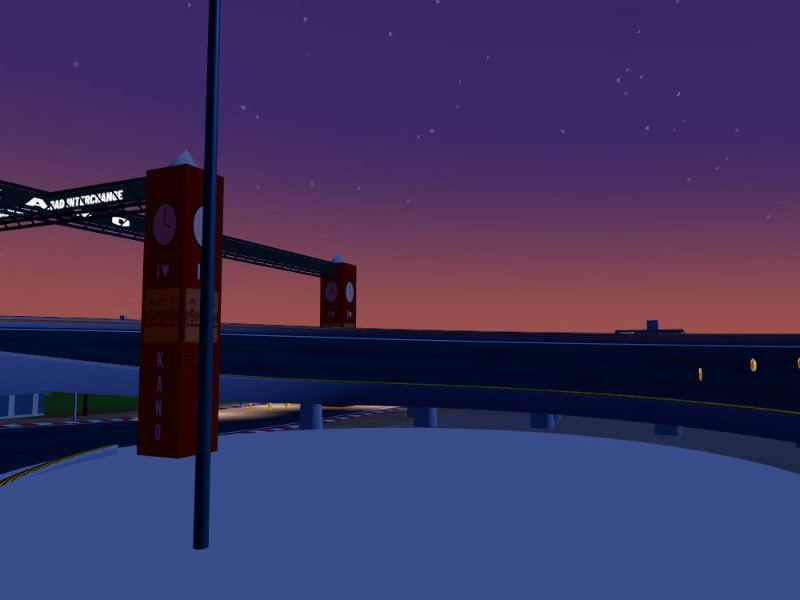
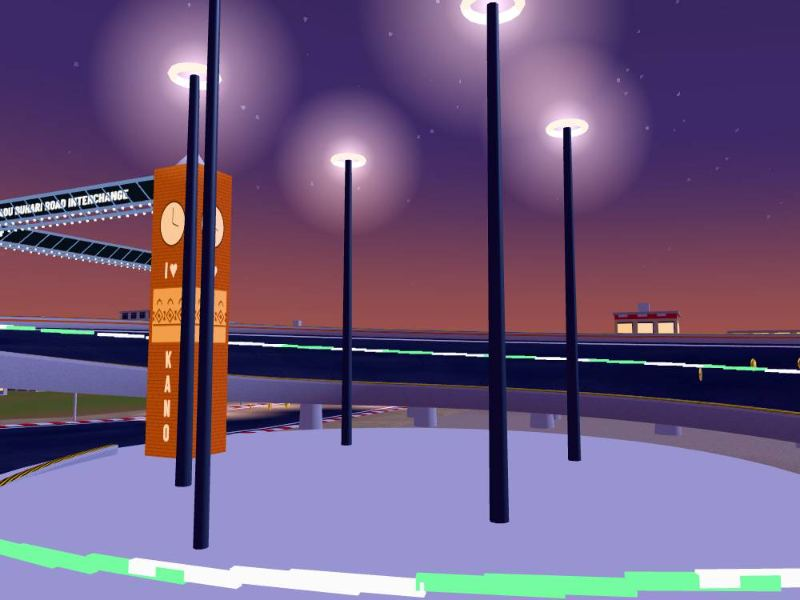
The circuit's introduction (F1 TV): before the race card the camera orbits low over the circuit with its name, laps and length, then flies past its places, a caption on each (the name, a line about it), and down to the grid. The full run the first time you race a circuit, a short one after; a tap, a

diff --git a/src/race-flow.js b/src/race-flow.js
@@ -20,7 +20,99 @@ import { releaseInput } from './input.js';
 
 // the loading card before a race (Asphalt): the chapter, the goal, pictures of its places, a filling diamond
 export const INTRO = location.hash === '#capture' ? 2.4 : 5.2; // seconds: long enough to read the card and see the grid
+// The circuit's introduction, before the race card (F1 TV): the camera orbits high over the whole circuit with its name,
+// then flies past its places, each with a caption, and drops down to the grid. The first time you race a circuit you
+// see up to five places; after that only the orbit and one place. A tap, a click or a key skips it.
+const FLY_OPEN = 3,
+  FLY_SHOT = 2;
 export function raceIntro(then) {
+  if (game.flybyDone) {
+    game.flybyDone = false;
+    return raceCard(then);
+  }
+  circuitFlyby(() => {
+    game.flybyDone = true;
+    raceIntro(then);
+  });
+}
+function circuitFlyby(then) {
+  const tr = game.track,
+    key = 'introSeen.' + game.RID,
+    first = !store.get(key, false),
+    places = (game.world.places || []).filter(p => p.s != null),
+    pick = first ? places.slice(0, 4) : places.slice(0, 1);
+  store.set(key, true);
+  if (location.hash === '#capture') return then(); // (pictures and recordings go straight to the race)
+  game.race.reset(); // the grid lines up; the roads are empty
+  const km = (tr.len / 1000).toFixed(1).replace('.0', ''),
+    cname = (game.circuit?.name || chapter.name).toUpperCase(), // (the circuit's own name: no "KANO · KANO CITY")
+    shots = [
+      {
+        kind: 'orbit',
+        dur: first ? FLY_OPEN : 1.6,
+        kicker: chapter.name.toUpperCase(),
+        name: cname,
+        chips: [`${LAPS} LAPS`, `${km} KM`],
+      },
+      ...pick.map(p => ({
+        kind: 'place',
+        dur: first ? FLY_SHOT : 1.5,
+        p,
+        kicker: cname,
+        name: p.name,
+        sub: p.sub,
+      })),
+    ];
+  game.flyby = { shots, i: -1, t: 0, total: shots.reduce((a, x) => a + x.dur, 0) };
+  game.state = 'flyby';
+  const el = $('#flyby');
+  let ended = false;
+  const end = () => {
+    if (ended) return;
+    ended = true;
+    removeEventListener('keydown', skipKey);
+    el.removeEventListener('pointerdown', end);
+    clearInterval(tick);
+    hide(el, null, -1);
+    game.flyby = null;
+    then();
+  };
+  const skipKey = e => {
+    if (e.code !== 'Tab') end();
+  };
+  addEventListener('keydown', skipKey);
+  el.addEventListener('pointerdown', end);
+  // the caption follows the shot the camera is on (camera.js moves the camera through game.flyby)
+  const caption = () => {
+    const f = game.flyby;
+    if (!f) return;
+    let t = f.t,
+      i = 0;
+    while (i < f.shots.length - 1 && t >= f.shots[i].dur) t -= f.shots[i++].dur;
+    if (f.t >= f.total) return end();
+    if (i === f.i) return;
+    f.i = i;
+    const sh = f.shots[i];
+    $('#fbKicker').textContent = sh.kicker;
+    const nm = $('#fbName');
+    nm.textContent = sh.name;
+    nm.style.fontSize = '';
+    {
+      // (one line, brought down in size until it fits: "THE AQUARIUM TUNNEL" was cut off)
+      let px = parseFloat(getComputedStyle(nm).fontSize);
+      while (nm.scrollWidth > nm.clientWidth + 1 && px > 24) nm.style.fontSize = `${(px -= 3)}px`;
+    }
+    $('#fbSub').textContent = sh.sub || '';
+    $('#fbChips').innerHTML = (sh.chips || []).map(c => `<b>${c}</b>`).join('');
+    el.classList.remove('cap-in');
+    void el.offsetWidth;
+    el.classList.add('cap-in');
+  };
+  const tick = setInterval(caption, 50);
+  show(el);
+  caption();
+}
+function raceCard(then) {
   const c = chapter,
     el = $('#raceLoad');
   // the World Tour's Final dresses up: a gold card with a trophy, THE FINAL; fireworks and the crowd at the start

diff --git a/src/style.css b/src/style.css
@@ -3879,3 +3879,123 @@ body.tilt-steer .steer-pad {
   padding: calc(var(--st) + 16px) max(16px, var(--sr)) calc(var(--sb) + 16px) max(16px, var(--sl)) !important;
   background: rgba(6, 10, 26, 0.82) !important;
 }
+
+/* ---------- the circuit's introduction (F1 TV): a caption low on the left over the flying camera, SKIP low right ---------- */
+#flyby {
+  position: fixed;
+  inset: 0;
+  z-index: 29;
+  pointer-events: auto;
+  background: linear-gradient(0deg, rgba(11, 19, 48, 0.75), rgba(11, 19, 48, 0) 38%);
+  padding: 0 max(20px, var(--sr)) calc(var(--sb) + 28px) max(20px, var(--sl));
+  display: flex;
+  align-items: flex-end;
+  justify-content: space-between;
+  gap: 16px;
+}
+.fb-cap {
+  display: flex;
+  flex-direction: column;
+  gap: 10px;
+  min-width: 0;
+  max-width: min(640px, 100%);
+}
+.fb-tag {
+  margin: 0;
+  display: flex;
+  align-items: stretch;
+  height: 34px;
+  font-family: var(--race);
+  font-style: italic;
+  font-weight: 800;
+  font-size: 22px;
+}
+.fb-tag span {
+  display: flex;
+  align-items: center;
+  background: var(--orange);
+  color: var(--white);
+  padding: 0 26px 0 14px;
+  clip-path: polygon(0 0, 100% 0, calc(100% - 12px) 100%, 0 100%);
+  white-space: nowrap;
+}
+.fb-tag i {
+  width: 7px;
+  background: var(--white);
+  transform: skewX(-20deg);
+  margin-left: 4px;
+}
+#fbName {
+  margin: 0;
+  font-family: var(--race);
+  font-style: italic;
+  font-weight: 900;
+  font-size: clamp(44px, 10vw, 84px);
+  line-height: 0.92;
+  color: var(--white);
+  text-shadow: 0 4px 24px rgba(0, 0, 0, 0.45);
+  white-space: nowrap;
+  overflow: hidden;
+  text-overflow: clip;
+}
+.fb-sub {
+  margin: 0;
+  font-family: var(--race);
+  font-style: italic;
+  font-weight: 700;
+  font-size: clamp(20px, 4.4vw, 28px);
+  color: var(--line);
+  white-space: nowrap;
+  overflow: hidden;
+}
+.fb-sub:empty {
+  display: none;
+}
+.fb-chips {
+  display: flex;
+  gap: 8px;
+  flex-wrap: nowrap;
+}
+.fb-chips:empty {
+  display: none;
+}
+.fb-chips b {
+  font-family: var(--race);
+  font-style: italic;
+  font-weight: 800;
+  font-size: 20px;
+  color: var(--white);
+  background: rgba(11, 19, 48, 0.75);
+  border: 2px solid rgba(255, 255, 255, 0.35);
+  padding: 4px 14px;
+  clip-path: polygon(8px 0, 100% 0, calc(100% - 8px) 100%, 0 100%);
+  white-space: nowrap;
+}
+/* the caption slides in from the left each time it changes */
+#flyby.cap-in .fb-cap {
+  animation: fbIn 420ms cubic-bezier(0.23, 1, 0.32, 1);
+}
+@keyframes fbIn {
+  from {
+    opacity: 0;
+    transform: translateX(-28px);
+  }
+}
+.fb-skip {
+  flex: none;
+  font-family: var(--race);
+  font-style: italic;
+  font-weight: 800;
+  font-size: 22px;
+  color: var(--white);
+  background: rgba(11, 19, 48, 0.6);
+  border: 2px solid rgba(255, 255, 255, 0.5);
+  padding: 8px 22px;
+  clip-path: polygon(10px 0, 100% 0, calc(100% - 10px) 100%, 0 100%);
+  -webkit-tap-highlight-color: transparent;
+}
+@media (prefers-reduced-motion: reduce) {
+  #flyby.cap-in .fb-cap {
+    animation: none;
+  }
+}

diff --git a/src/camera.js b/src/camera.js
@@ -55,7 +55,36 @@ export function updateCamera(dt) {
   const fpOn = game.view === 'fp' && (game.state === 'race' || game.state === 'count');
   fpBody(k.m, !fpOn);
   game.race.fpView = fpOn;
-  if (game.state === 'intro') {
+  if (game.state === 'flyby' && game.flyby) {
+    // the circuit's introduction (race-flow.js): a slow orbit high over the circuit, then a drone pass at each place,
+    // gliding in toward it and looking at it, a cut between shots
+    const f = game.flyby;
+    f.t += dt;
+    let t = f.t,
+      i = 0;
+    while (i < f.shots.length - 1 && t >= f.shots[i].dur) t -= f.shots[i++].dur;
+    const sh = f.shots[i],
+      u = Math.min(1, t / sh.dur),
+      e2 = u * u * (3 - 2 * u),
+      tr = game.track;
+    if (sh.kind === 'orbit') {
+      // (low enough that the circuit fills the frame and the edge of the world stays out of it)
+      const C = tr.center,
+        R = tr.radius * 0.9,
+        a = -0.6 + e2 * 0.55;
+      want.set(C.x + Math.cos(a) * R, tr.radius * 0.36, C.z + Math.sin(a) * R);
+      wantLook.set(C.x - Math.cos(a) * R * 0.15, 0, C.z - Math.sin(a) * R * 0.15);
+    } else {
+      const p = sh.p,
+        back = (p.back || 30) + 34 - e2 * 26,
+        q = tr.point(p.s - back, p.lat || 0);
+      want.set(q.x, q.y + (p.h || 4) + 10 - e2 * 5, q.z);
+      wantLook.set(p.x, (p.y || 0) + (p.lookH || 8), p.z);
+    }
+    wantUp.set(0, 1, 0);
+    rate = t < 0.06 || i !== f.ci ? 80 : 6; // (a clean cut to each new shot, then a smooth glide)
+    f.ci = i;
+  } else if (game.state === 'intro') {
     // a slow drone sweep down the starting grid, from high in front of the gate to low behind the pack
     game.introT += dt;
     const u = Math.min(1, game.introT / (INTRO - 0.3)),

diff --git a/index.html b/index.html
@@ -217,6 +217,17 @@
     </div>
   </section>
 
+  <!-- the circuit's introduction (F1 TV): the camera flies over the circuit and past its places, a caption on each -->
+  <section id="flyby" hidden>
+    <div class="fb-cap">
+      <p class="fb-tag"><span id="fbKicker">KANO</span><i></i><i></i></p>
+      <h2 id="fbName">KANO CITY</h2>
+      <p class="fb-sub" id="fbSub"></p>
+      <div class="fb-chips" id="fbChips"></div>
+    </div>
+    <button class="fb-skip" id="fbSkip" type="button">SKIP</button>
+  </section>
+
   <section id="raceLoad" hidden>
     <div class="rl-left">
       <svg class="rl-trophy" viewBox="0 0 24 24" aria-hidden="true"><path fill-rule="evenodd" d="M7 3h10v1.5h3.5V8a4.5 4.5 0 0 1-4.6 4.5A5 5 0 0 1 13 15v2.5h3.5V21h-9v-3.5H11V15a5 5 0 0 1-2.9-2.5A4.5 4.5 0 0 1 3.5 8V4.5H7zM5.5 6.5V8a2.5 2.5 0 0 0 2 2.45V6.5zm13 0h-2v3.95a2.5 2.5 0 0 0 2-2.45z"/></svg>

diff --git a/src/music.js b/src/music.js
@@ -11,7 +11,7 @@ import { store } from './util.js';
 const MENUS = '/music/track-1.mp3',
   RACING = '/music/track-2.mp3';
 // the states that are the race itself (everything else is a menu)
-const RACE = new Set(['intro', 'count', 'race', 'finish', 'paused']);
+const RACE = new Set(['flyby', 'intro', 'count', 'race', 'finish', 'paused']);
 // how loud in each state of the game (of the MUSIC setting)
 const LEVEL = { race: 0.32, finish: 0.32, paused: 0.25, intro: 0, count: 0 };
 
